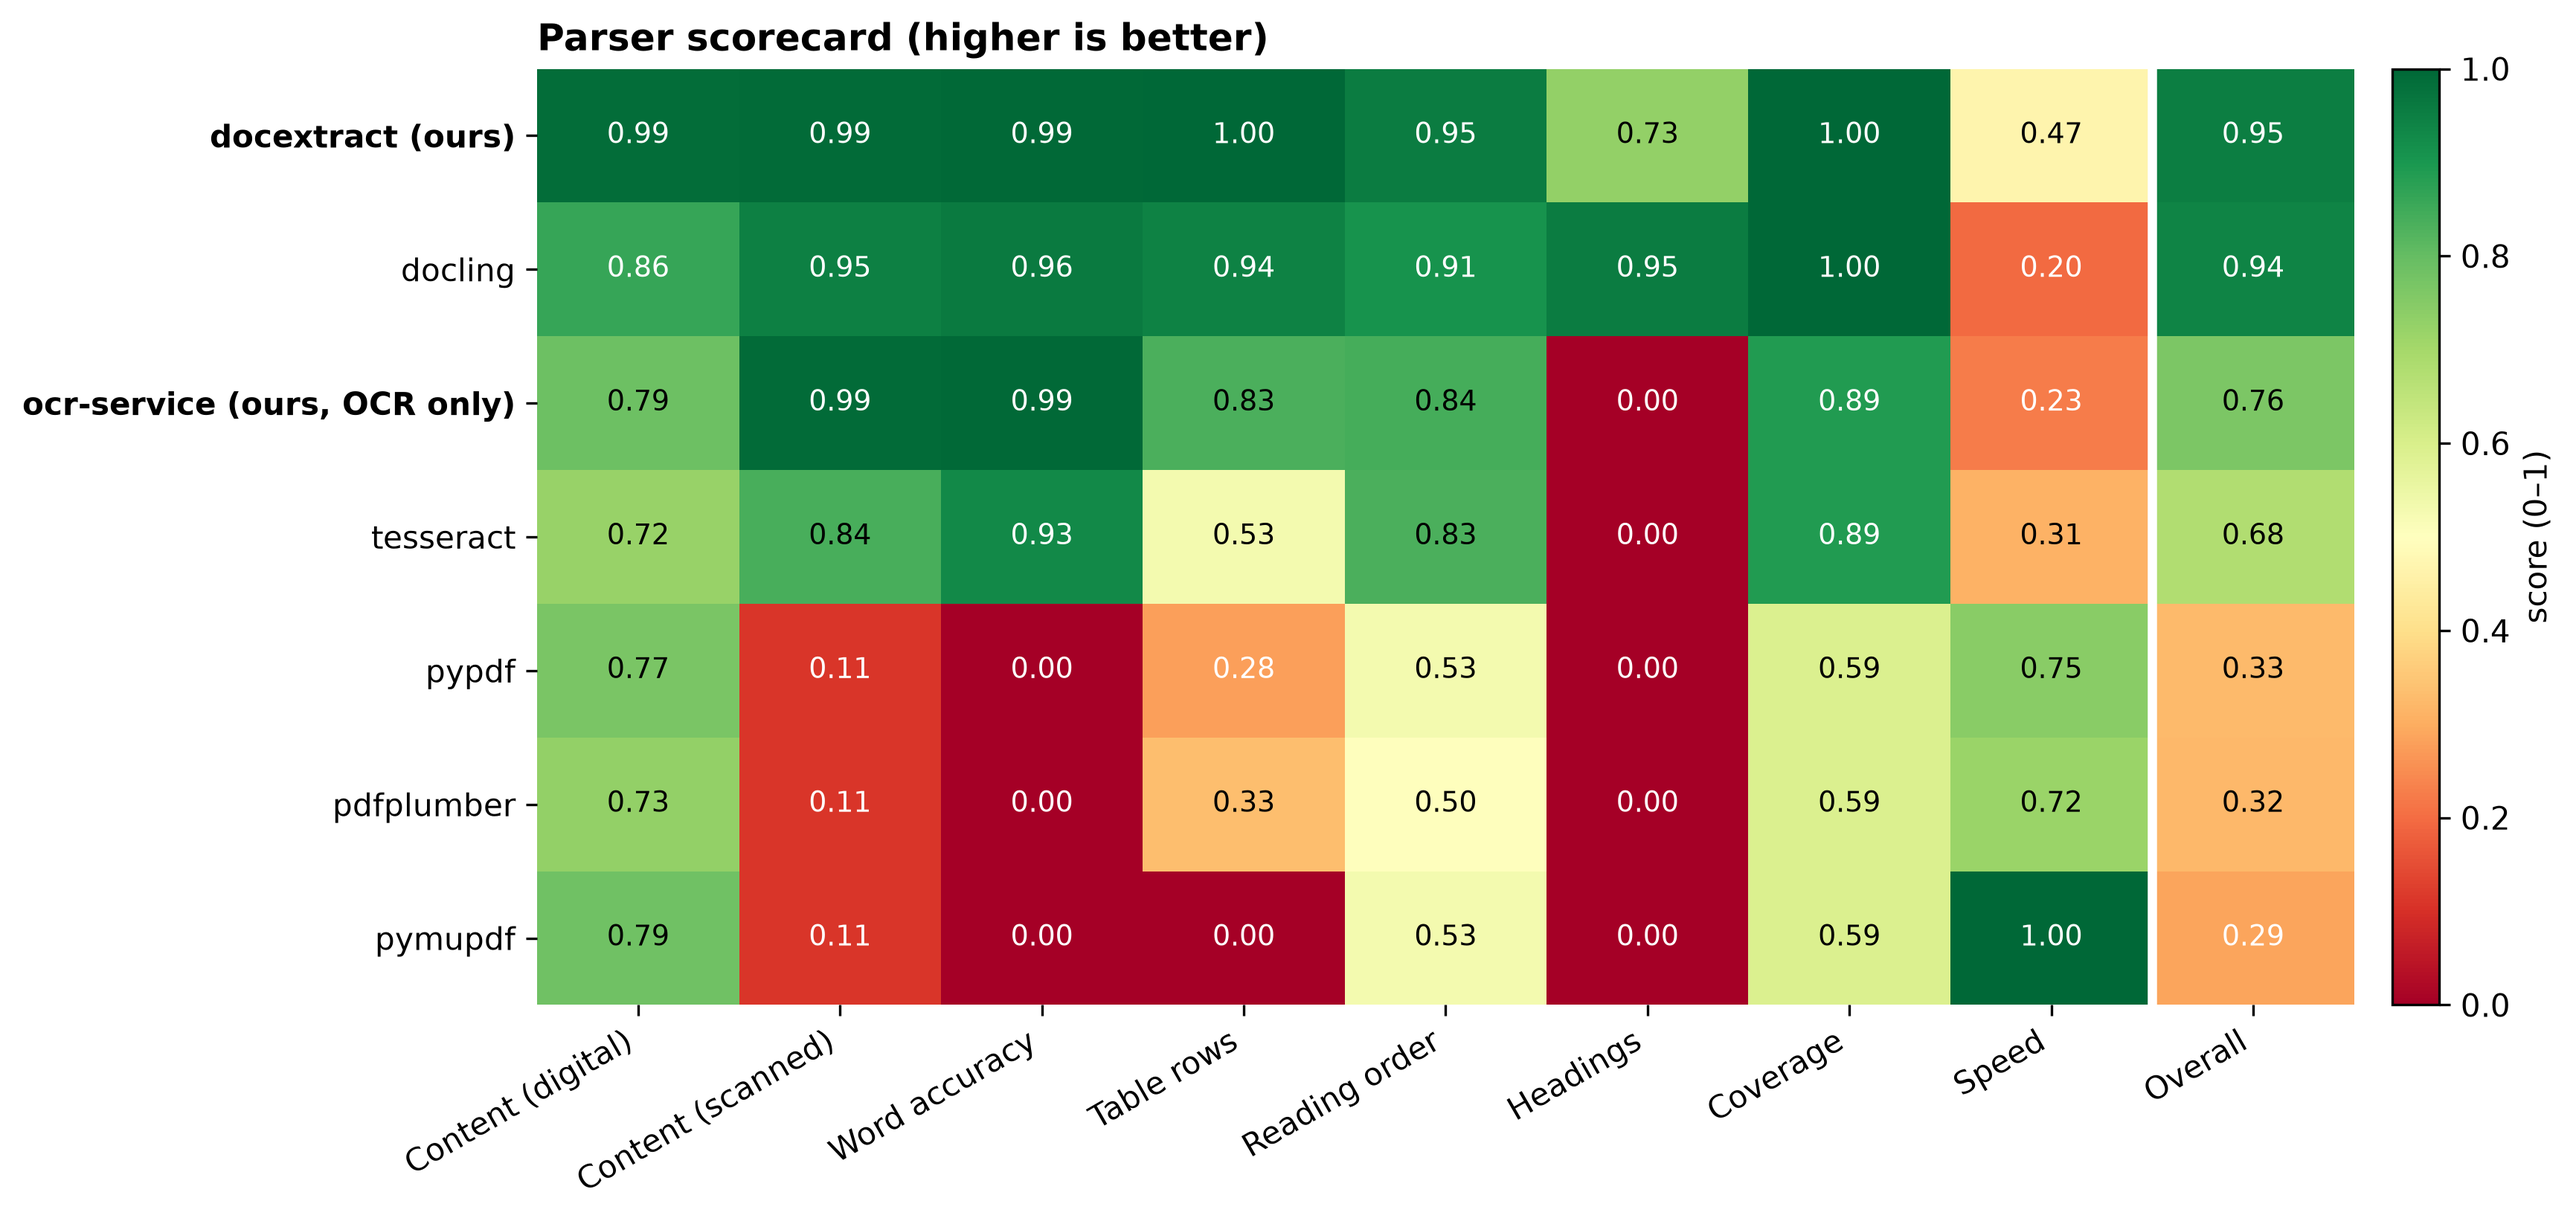
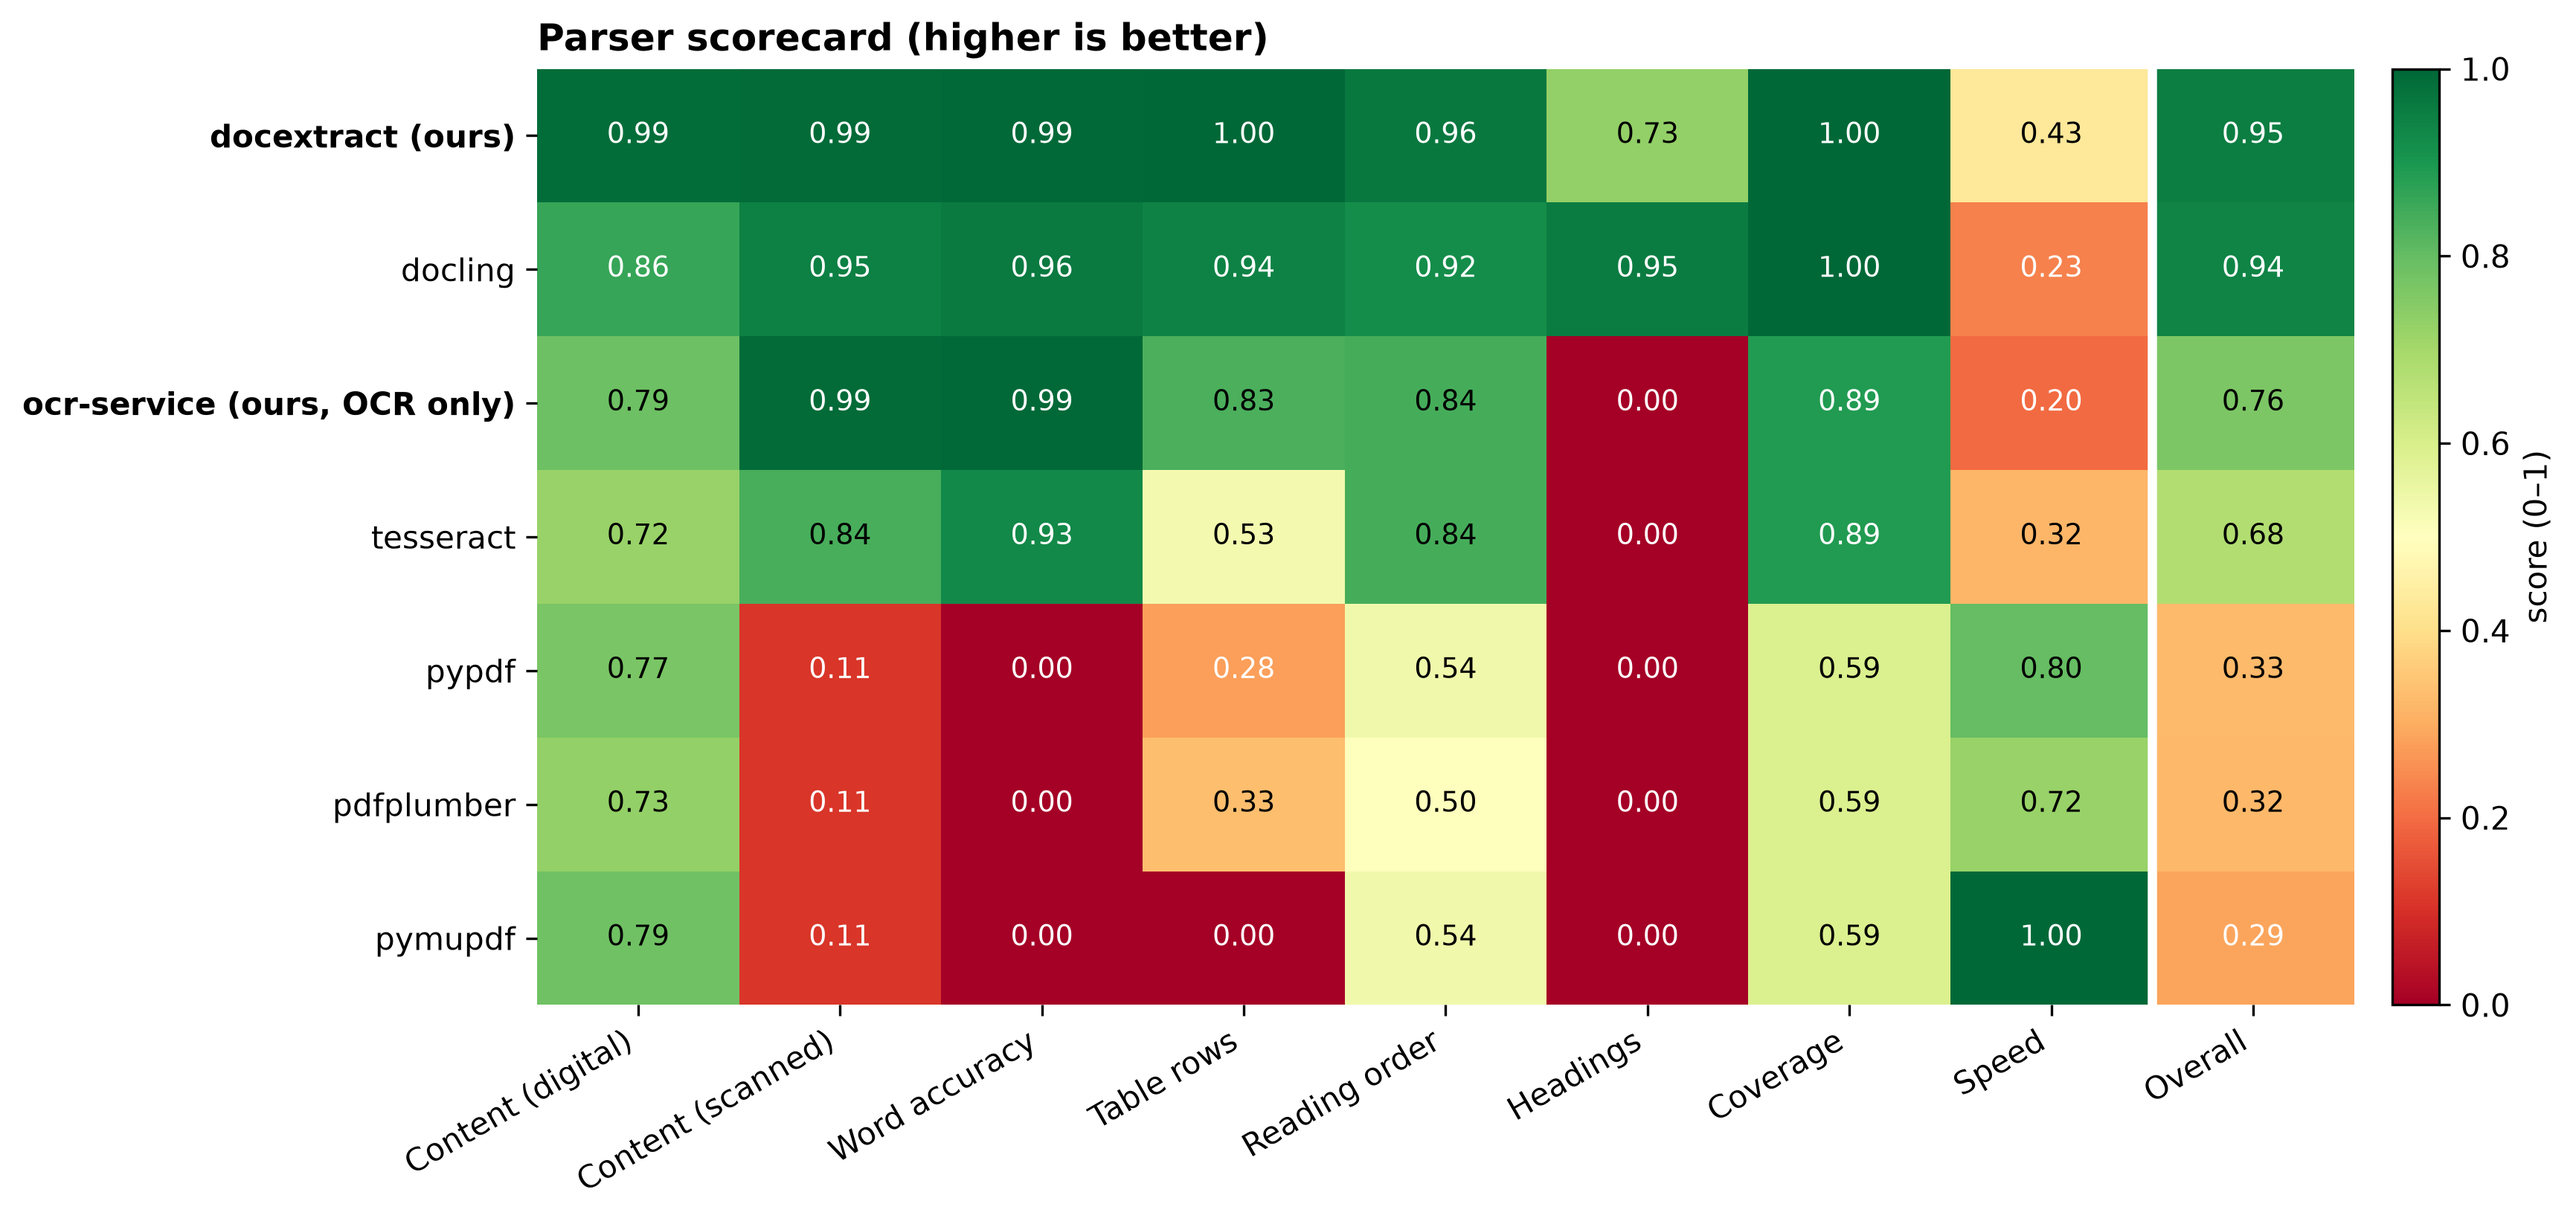
Reading-order fix with test, benchmark metric update, refreshed figures, logbook

Changed region(s): [[0.7485, 0.497, 0.842, 0.6212]]

diff --git a/src/test/java/com/docextract/parse/LayoutFixesTest.java b/src/test/java/com/docextract/parse/LayoutFixesTest.java
@@ -3,8 +3,11 @@ package com.docextract.parse;
 import com.docextract.document.ContentCache;
 import com.docextract.document.Document;
 import com.docextract.document.DocumentTypeDetector;
+import com.docextract.parse.layout.ReadingOrder;
+import com.docextract.parse.model.BBox;
 import com.docextract.parse.model.ParsedDocument;
 import com.docextract.parse.pdf.PdfPageReader;
+import com.docextract.parse.pdf.TextLine;
 import com.docextract.parse.plan.PagePlanner;
 import com.docextract.parse.tier.OcrPageParser;
 import com.docextract.parse.tier.OfficeParser;
@@ -14,6 +17,8 @@ import org.junit.jupiter.api.Test;
 
 import java.nio.file.Files;
 import java.nio.file.Path;
+import java.util.ArrayList;
+import java.util.List;
 
 import static org.assertj.core.api.Assertions.assertThat;
 import static org.junit.jupiter.api.Assumptions.assumeTrue;
@@ -64,5 +69,19 @@ class LayoutFixesTest {
         assertThat(markdown("real/amt_handbook_sample.pdf"))
                 .containsPattern("(?m)^#+ Boots Self-Locking Nut$")
                 .containsPattern("(?m)^#+ Stainless Steel Self-Locking Nut$");
+    }
+
+    @Test
+    void figureOverhangingTheGutterDoesNotMergeColumns() throws Exception {
+        Path p = Path.of("test-docs", "real/amt_handbook_sample.pdf");
+        assumeTrue(Files.exists(p), "test document missing: " + p);
+        List<TextLine> segs = new ArrayList<>(new PdfPageReader(new ContentCache(4))
+                .read(new Document(p.getFileName().toString(), null, Files.readAllBytes(p))).getFirst().lines());
+        // OCR'd image region as the service returns it: the picture box runs past the 311-321pt gutter
+        segs.add(TextLine.figure("Elastic anchor nut", new BBox(203, 542, 341, 606), 1.0));
+        List<String> text = ReadingOrder.order(segs).stream().map(TextLine::text).toList();
+        assertThat(text).contains("to the supporting structure by the nut and bolt. Plates must", "Elastic Stop Nut");
+        assertThat(text.indexOf("Elastic Stop Nut"))
+                .isGreaterThan(text.indexOf("insert to be compressed when the nut is tightened."));
     }
 }

diff --git a/src/main/java/com/docextract/parse/layout/ReadingOrder.java b/src/main/java/com/docextract/parse/layout/ReadingOrder.java
@@ -69,6 +69,26 @@ public final class ReadingOrder {
      * beside a heading), which lets a gutter win over the small horizontal gaps that aligned columns share.
      */
     private static List<List<TextLine>> verticalSplit(List<TextLine> segs, double unit, boolean tall) {
+        // an image box often overhangs the gutter (a picture wider than its column); find the channel from the
+        // text alone and give each figure to the side holding its centre
+        List<TextLine> text = segs.stream().filter(s -> !s.figure()).toList();
+        List<TextLine> figures = segs.stream().filter(TextLine::figure).toList();
+        if (figures.isEmpty() || text.size() < 2) {
+            return channel(segs, unit, tall);
+        }
+        List<List<TextLine>> sides = channel(text, unit, tall);
+        if (sides == null) {
+            return null;
+        }
+        double gutter = (sides.get(0).stream().mapToDouble(s -> s.bbox().x1()).max().orElse(0)
+                + sides.get(1).stream().mapToDouble(s -> s.bbox().x0()).min().orElse(0)) / 2;
+        for (TextLine f : figures) {
+            sides.get((f.bbox().x0() + f.bbox().x1()) / 2 < gutter ? 0 : 1).add(f);
+        }
+        return sides;
+    }
+
+    private static List<List<TextLine>> channel(List<TextLine> segs, double unit, boolean tall) {
         List<TextLine> byX = new ArrayList<>(segs);
         byX.sort(Comparator.comparingDouble(s -> s.bbox().x0()));
         double reach = byX.getFirst().bbox().x1();

diff --git a/bench/metrics.py b/bench/metrics.py
@@ -61,9 +61,17 @@ def reading_order(text: str, snippets: list[str]) -> float | None:
     """Missing snippets count as out of order, so a parser can't score well by dropping text."""
     if len(snippets) < 2:
         return None
+    # each snippet is looked for after the previous match, so a phrase that also occurs earlier in lower case
+    # ("the elastic stop nut" in a sentence before the "Elastic Stop Nut" heading) doesn't count as out of order
     tn = norm(text)
-    pos = [tn.find(norm(s)) for s in snippets]
-    good = sum(1 for a, b in zip(pos, pos[1:]) if a >= 0 and b > a)
+    good, prev = 0, tn.find(norm(snippets[0]))
+    for s in snippets[1:]:
+        nxt = tn.find(norm(s), prev + 1) if prev >= 0 else -1
+        if nxt > prev >= 0:
+            good += 1
+        else:
+            nxt = tn.find(norm(s))
+        prev = nxt
     return good / (len(snippets) - 1)
 
 

diff --git a/docs/LOGBOOK_SEP_NOV.md b/docs/LOGBOOK_SEP_NOV.md
@@ -1,0 +1,57 @@
+# docextract Logbook, September to November 2026
+
+Same format as the InfraScope logbook: Week | Date Range | Work Completed (one line).
+Each week below also has a short write-up (about 100 to 120 words, under half a page) to copy into the notebook.
+
+| Week | Date Range | Work Completed |
+|---|---|---|
+| Week 1 | Sep 2 – Sep 8, 2026 | Studied the document extraction problem, compared OCR, rule-based and LLM approaches, and fixed project requirements. |
+| Week 2 | Sep 9 – Sep 15, 2026 | Designed the tiered pipeline (native text, OCR, vision LLM) with JSON Schema as the output contract. |
+| Week 3 | Sep 16 – Sep 22, 2026 | Set up the Spring Boot project, built /api/extract and /health, and added PDFBox/Tika native text extraction. |
+| Week 4 | Sep 23 – Sep 29, 2026 | Built the baseline field mapper, validation engine, labelled corpus format and evaluation harness CLI. |
+| Week 5 | Sep 30 – Oct 6, 2026 | Added the multi-file API, Tika type detection and routing, and declarative business rules. |
+| Week 6 | Oct 7 – Oct 13, 2026 | Implemented the OCR tier and vision-LLM tier and compared all tiers on accuracy and cost. |
+| Week 7 | Oct 14 – Oct 20, 2026 | Built generic invoice mapping: field vocabulary, date and currency handling, tax summary and line items. |
+| Week 8 | Oct 21 – Oct 27, 2026 | Added layout-aware extraction and schema-driven fallbacks, then tested on real invoices and other documents. |
+| Week 9 | Oct 28 – Nov 3, 2026 | Built the React frontend for uploading documents, entering a schema and viewing extraction results. |
+| Week 10 | Nov 4 – Nov 10, 2026 | Added the Python OCR service (RapidOCR, ONNX Runtime), GPU support and OCR text clean-up. |
+| Week 11 | Nov 11 – Nov 17, 2026 | Developed the v2 parse engine with per-page routing, OCR tiers and quality-based escalation. |
+| Week 12 | Nov 18 – Nov 24, 2026 | Redesigned the frontend with Parse mode, added .zip upload, fixed PDF layout and built the benchmark dashboard. |
+
+---
+
+## Week 1: Sep 2 – Sep 8, 2026
+This week I studied the problem of extracting structured data from invoices, forms and scanned documents. I read about the common approaches: plain text extraction, OCR with Tesseract, rule and regex mapping, and vision LLMs. Each has a different accuracy and cost. Plain text is cheap but fails on scans. OCR works on scans but is slower and makes mistakes. LLMs are accurate but expensive. From this I decided the system should take any document plus a JSON Schema and return JSON that matches the schema. It should also give a confidence score per field and a pass/fail validation result. I wrote down the requirements and the evaluation goals.
+
+## Week 2: Sep 9 – Sep 15, 2026
+I designed the overall architecture. The main idea is a tiered pipeline: native text first, then OCR, then a vision LLM, each with a relative cost weight, so the cheapest tier that works is chosen. I defined an ExtractionStrategy interface that every tier implements, plus a CostTier value. JSON Schema was chosen as the contract between the user and the system, with custom `x-labels` hints for field names. I picked Java 21 with Spring Boot 3 for the API and Maven for the build. I also drew the data flow: upload, type detection, extraction, field mapping, validation, response.
+
+## Week 3: Sep 16 – Sep 22, 2026
+I created the Spring Boot project and set up the Maven wrapper. I built `POST /api/extract`, first as a stub that returned a fixed response, and `GET /health`. Then I implemented the first extraction strategy, native text. It uses PDFBox for PDFs and Apache Tika for other formats such as DOCX and plain text. I tested it on a few sample documents and checked that the text came out in the right order. I also wrote the first version of the README with the requirements and run steps, so the project can be started with one command.
+
+## Week 4: Sep 23 – Sep 29, 2026
+I built the baseline field mapper. It finds labels such as "Invoice No" or "Total" and takes the value next to them, and it also handles dates and currency. After that I wrote the validation engine. It checks the extracted JSON against the schema using the networknt library and allows extra business rules to be plugged in. I defined a labelled corpus format (document plus expected JSON), a loader, and three sample documents. Finally I wrote an evaluation harness CLI that reports per-field accuracy, per-document accuracy and cost, and saves CSV files. On Sep 27 I moved the Java target back to 21 after build problems with 25.
+
+## Week 5: Sep 30 – Oct 6, 2026
+I extended the API to accept several files in one request, with one schema, and return one result per file. Each file gets its own status: OK, TIER_NOT_CONFIGURED, UNSUPPORTED or ERROR, so a bad file does not break the whole request. I added file type detection from the bytes using Tika instead of trusting the extension. Routing rules were added: PDFs with a text layer go to native text, scans and images go to OCR, and Office and text files go to Tika. I also made validation stricter: format checks are on, null is treated as missing, and rules can be written as declarative expressions.
+
+## Week 6: Oct 7 – Oct 13, 2026
+This week I added the two remaining tiers. The OCR tier uses Tess4J (Tesseract). Pages are rendered at 300 DPI and cleaned with a median filter and Otsu thresholding before recognition. The vision-LLM tier sends page images and the schema to the model in JSON mode and projects the reply onto the schema. It stays disabled, returning TIER_NOT_CONFIGURED, until an API key is set, so it never returns made-up output. I updated the harness to compare all tiers and an auto-routed mode. On the 4 synthetic documents, OCR reached about 94% field accuracy and native text about 45%. The test count reached 89.
+
+## Week 7: Oct 14 – Oct 20, 2026
+I generalised the mapper so it is not tied to one invoice layout. It now recognises a field from its name (`grandTotal`, `amount_due`, `billNo`) and uses ordered label synonyms, for example Amount Payable before Grand Total before Total. Dates are parsed in many formats (`28-09-2026`, `14.02.25`, `12-Mar-2024`), Indian lakh number grouping is handled, and percentage rates are not mistaken for amounts. Currency is detected from symbols. Tax summary rows such as CGST+SGST or VAT bands are summed when no tax total is printed. I also wrote a generic line-item table reader and tested on one real Indian POS invoice. Tests reached 95.
+
+## Week 8: Oct 21 – Oct 27, 2026
+I made extraction layout-aware. Wide gaps in PDF text are treated as column breaks. A normaliser turns a header row over a value row ("DUE DATE" above "11/12/2026") and block labels ("From:" above a name) into "Label: value" form. The date order (day-first or month-first) is inferred per document. Values placed directly after a label are preferred. I added schema-driven fallbacks using `pattern`, `enum` and `format: email/uri`, with no invoice-specific guessing. On 4 real invoices native text reached 100% field accuracy (I noted that this is an upper bound because I tuned on them). A non-invoice schema on 3 PDFs gave 30 of 30 correct fields.
+
+## Week 9: Oct 28 – Nov 3, 2026
+I built the first version of the React + TypeScript frontend with Vite. The user can upload one or many files, paste or choose a JSON Schema, pick a tier and run extraction. The result view shows the extracted JSON, confidence per field, pass/fail per field and the list of rule violations. I added loading, error and empty states, and connected it to `/api/extract` and `/api/schemas`. I checked the full flow in a browser against the running API. I also fixed a few cases where fields came back null because of how the response was parsed in the UI.
+
+## Week 10: Nov 4 – Nov 10, 2026
+The Tesseract results on logos, the ₹ symbol and small text were weak (65.6% on the real invoices), so I built a separate Python OCR service using RapidOCR (PP-OCR models on ONNX Runtime). Java keeps routing, mapping and validation and sends documents to the service on port 8001. With `engine=auto` it falls back to Tesseract if the service is down. I added optional GPU support (CUDA and DirectML) with a warm-up check and a fall-back to CPU, then measured about 5.1 s per page on CPU and 3.6 to 4.5 s with detection on the GPU. I also added noise-gated OCR text clean-up.
+
+## Week 11: Nov 11 – Nov 17, 2026
+I built the v2 parse engine. Instead of choosing one tier for a whole document, it now decides per page. A page with a good text layer uses native text, and a scanned page goes to OCR. After each step a quality check scores the result, and if the score is too low the page escalates to the next, more expensive tier. This saves cost on mixed documents, such as a PDF with a digital cover page and scanned attachments. I added the `/api/parse` endpoint for this mode and tests for the routing and escalation rules. The work was committed on Nov 17 on the `v2-parse-engine` branch.
+
+## Week 12: Nov 18 – Nov 24, 2026
+I redesigned the frontend with a new layout and a Parse mode for the v2 engine, and added a script (`run-all`) that starts the API, OCR service and UI together. The API now accepts a .zip file of many documents on both `/api/extract` and `/api/parse`. I fixed native PDF layout problems: reading order, line building and page parsing. Finally I wrote a parser benchmark and an analysis dashboard that compare tiers on accuracy and cost, with per-service start scripts. Remaining work is the final report, the held-out evaluation and final testing.
